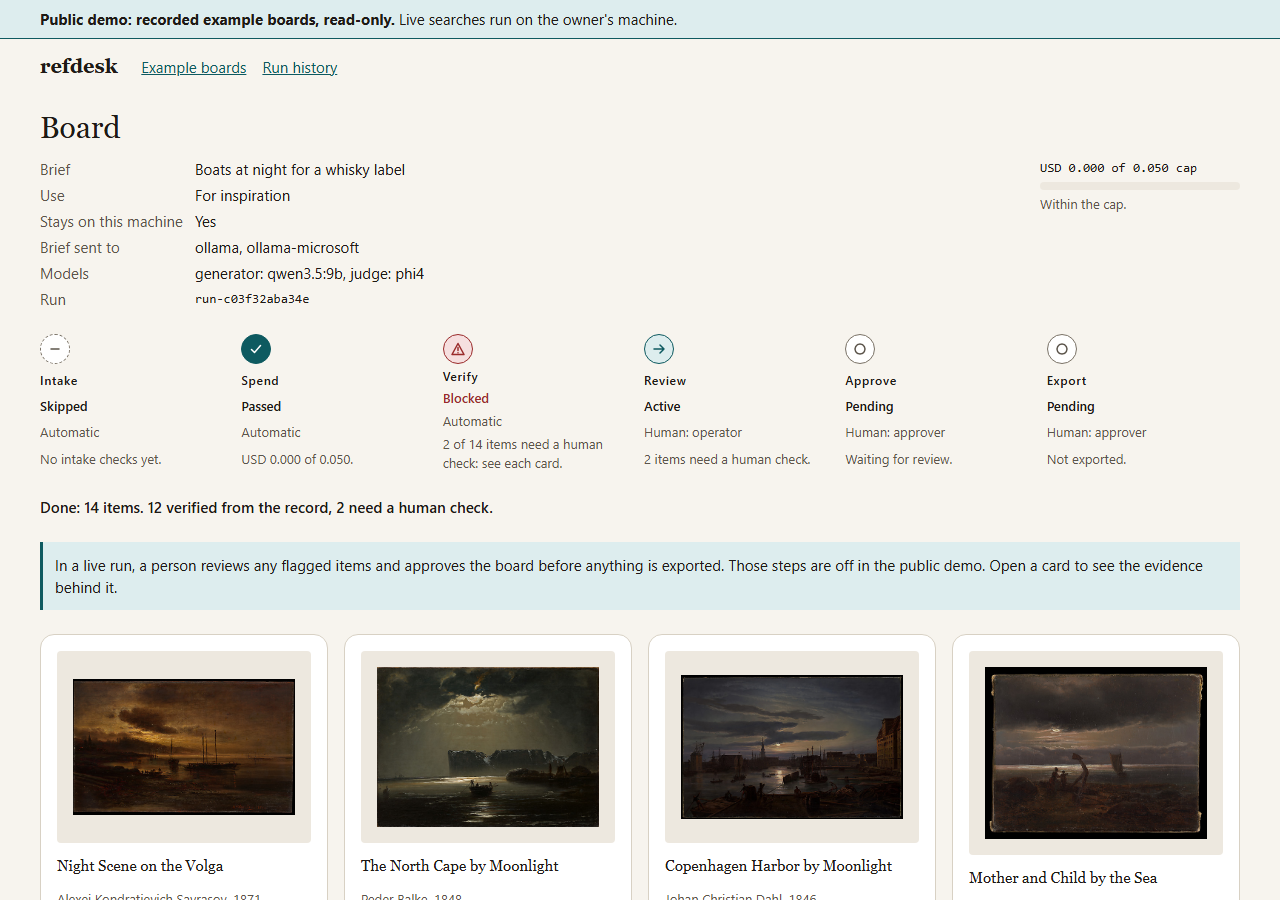
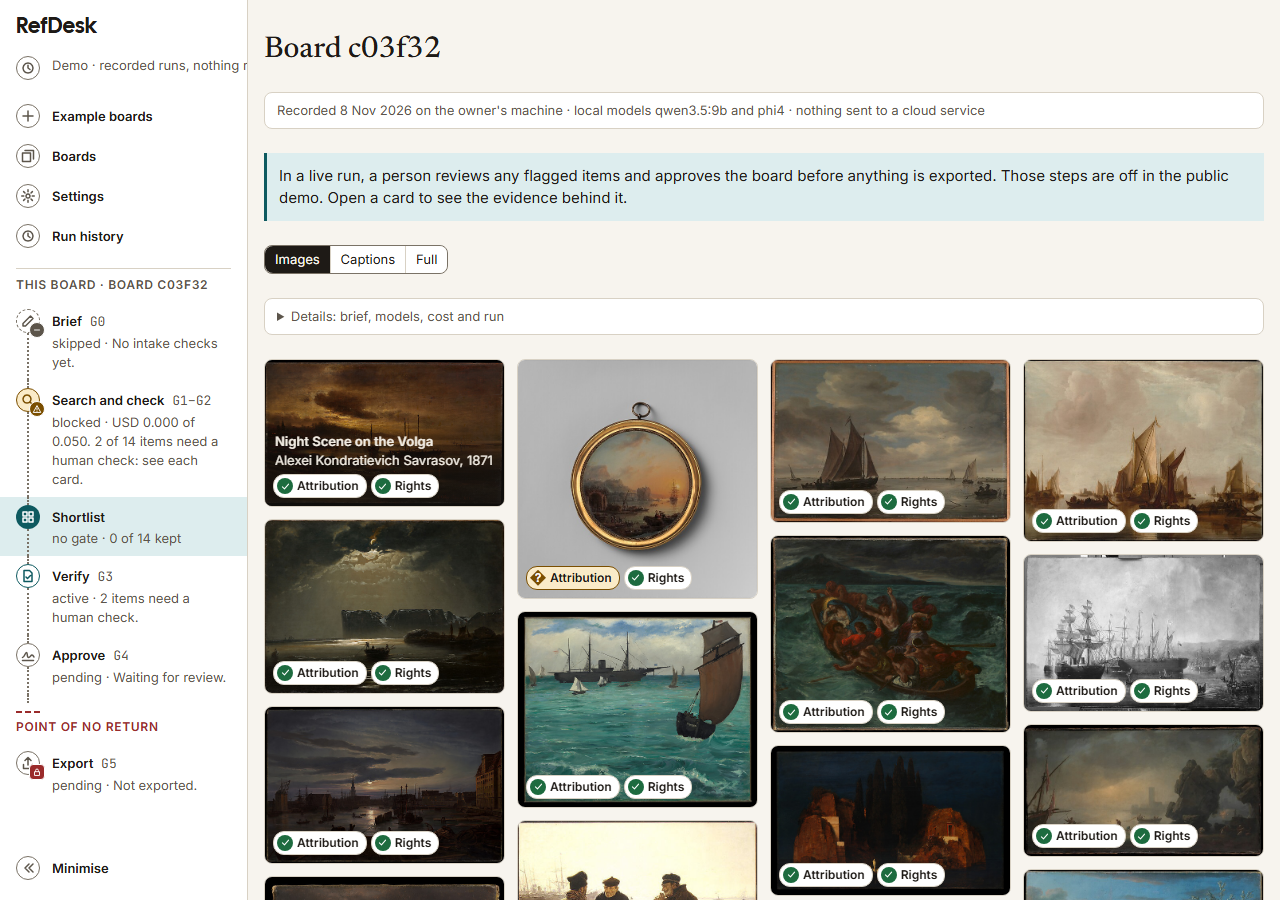
README: refresh screenshots and text for the current UI
Shots retaken from the app as it is now: the image-first board (issues
232/248), the stage panel, and the run-mode lines and Mock tag from #251
(demo board shows the recorded line; the quick-start board shows the mock
indicator). New: the evidence lightbox and a full-profile board shot.
Text: image-first wording, what the run-mode lines promise, and current
counts (280 commits / 121 PRs / 96 issues, 36 logged defects, 26 ADRs).
The clipped panel line seen in the shots is filed as #254.

diff --git a/README.md b/README.md
@@ -44,15 +44,19 @@ flowchart LR
   D --> E[Export a provenance pack]
 ```
 
-![A recorded board: the brief, models, approval gates and the first results](docs/images/demo-board.png)
+![A recorded board: images first, with the run's gates, models and approval state in the side panel](docs/images/demo-board.png)
 
 1. **Write a brief.** Describe the mood, subject or style you want. You can add conditions (a period, material or motif) and choose whether the brief may leave your machine.
-2. **Review the board.** Each result shows the image, why it fits, and a rights badge such as *Open (as stated by source)*.
+2. **Review the board.** The board opens on the images: a grid of the works found, name and rights badge a click away. Captions and full cards are one click away, and every board states how it was made (see [Where a brief is sent](#where-a-brief-is-sent)).
 3. **Check flagged items.** Anything refdesk could not verify is marked *Needs human check*, with the exact claim that failed. Keep it with a note, or drop it.
 4. **Approve.** An approver signs off on the selection. refdesk does not let anything be exported before that.
 5. **Export.** Download a provenance pack (CSV): every work with its source, rights basis, credit line and the date it was checked.
 
 If a result looks wrong, use **This is wrong** on the item to report it. The report is queued for review; the board itself is not changed.
+
+Opening any work shows the evidence behind its card — why it fits, every claim with the record field it came from, and the rights record as the museum states it:
+
+![A work open in the lightbox: the fit sentence, the claims with their record fields, and the rights record](docs/images/item-evidence.png)
 
 ## How it works
 
@@ -99,7 +103,7 @@ flowchart LR
   P -->|no| ERR[Hard error:<br/>never a silent fallback]
 ```
 
-By default everything runs locally, or against a mock model server for tests. Every board records where its brief was sent.
+By default everything runs locally, or against a mock model server for tests. Every board records where its brief was sent, and says so: a line under the wordmark and on each board gives the mode — mock, local, cloud or search-only — and any board the mock server answered also carries a **Mock** tag on its strip and its Boards card, so test answers are never mistaken for real ones.
 
 ## Quick start
 
@@ -160,6 +164,8 @@ uv run uvicorn refdesk.api.app:app --port 8000
 
 **You now have:** refdesk at http://localhost:8000. Write a brief and follow the flow in [How you use it](#how-you-use-it).
 
+![The board after a run on the mock server: images first, and the mode line and Mock tag saying how it was made](docs/images/board-shortlist.png)
+
 ### Stage 4: Go further (optional)
 
 **Use real local models.** Pull `qwen3.5:9b` and `phi4` in Ollama. Copy `.env.example` to `.env` and set both `REFDESK_GENERATOR_TIER=local-small` and `REFDESK_JUDGE_TIER=auto` (set both, or the judge stays the mock). Then start the API with the env file. You no longer need the mock server.
@@ -194,13 +200,13 @@ Not yet a product claim: every evaluation so far uses a **synthetic** golden set
 
 ## How it was built: with a coding agent, under rules
 
-Most of the code was written with Claude Code, as an agent working through GitHub Issues: 263 commits, 106 merged PRs and 83 closed issues since 11 October 2026. The point was not speed alone, so the agent works under rules that keep the system explainable and the decisions mine:
+Most of the code was written with Claude Code, as an agent working through GitHub Issues: 280 commits, 121 merged PRs and 96 closed issues since 11 October 2026. The point was not speed alone, so the agent works under rules that keep the system explainable and the decisions mine:
 
 - **Permissions.** Pushing, merging, new dependencies, `gh api`, Docker, pulling models and any `--approve` (paid) run all wait for me ([`.claude/settings.json`](.claude/settings.json)). The agent may not widen its own permissions.
 - **Decisions stay human.** Golden-set labels, ADR reasoning, decision-contract costs and residual-risk calls are mine; the agent drafts scaffolding and asks ([`CLAUDE.md`](CLAUDE.md), "Learning mode").
 - **Tests first** for scorers, adapters, loop controls and rights logic; CI runs the Python suite, the UI tests, browser tests with an accessibility check, and a container build, smoke test and scan on every PR.
-- **Every AI-introduced defect is logged** with how it was caught and fixed: 32 so far, in [`docs/ai-assist-log.md`](docs/ai-assist-log.md). They include a broken workflow file, a test that only passed locally, and a design mistake caught by CI.
-- **Decisions are written down**: 25 ADRs in [`docs/adr/`](docs/adr/), each with the options rejected and why.
+- **Every AI-introduced defect is logged** with how it was caught and fixed: 36 so far, in [`docs/ai-assist-log.md`](docs/ai-assist-log.md). They include a broken workflow file, a test that only passed locally, and a design mistake caught by CI.
+- **Decisions are written down**: 26 ADRs in [`docs/adr/`](docs/adr/), each with the options rejected and why.
 
 ## Technical details
 
@@ -226,7 +232,7 @@ A golden-set validator, capped recall@k, MRR, an open-rights share, seeded boots
 
 ### API and UI
 
-FastAPI with a small static React UI (Vite + TypeScript) served by the API. A `/design` page shows every component, checked with axe in CI. The OpenAPI spec is in [`docs/api/openapi.json`](docs/api/openapi.json).
+FastAPI with a small static React UI (Vite + TypeScript) served by the API. The board is image-first: the grid of works opens first, captions and full cards are a click away, and a work opens in a lightbox with its evidence. A `/design` page shows every component, checked with axe in CI. The OpenAPI spec is in [`docs/api/openapi.json`](docs/api/openapi.json).
 
 ### MCP server
 
